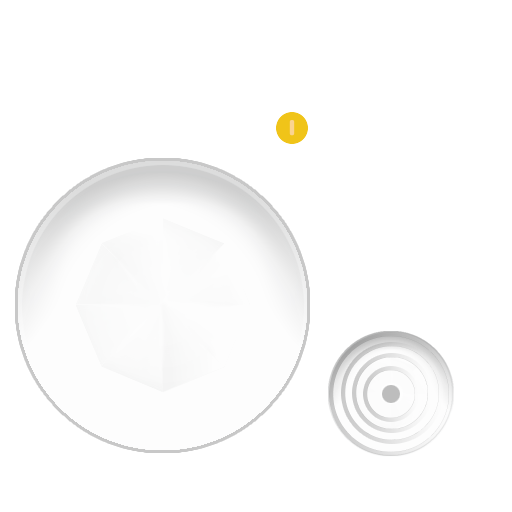
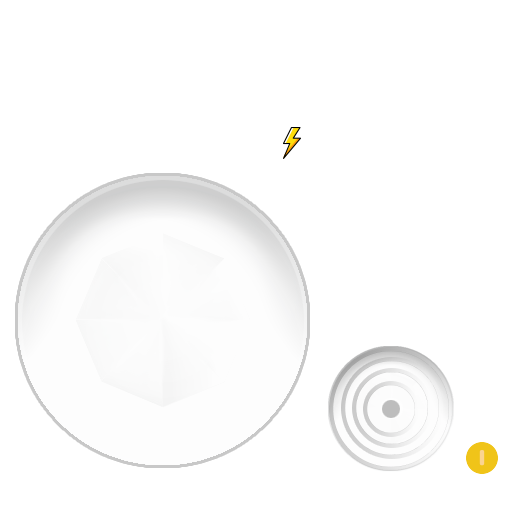
add boost item

diff --git a/core/src/ir/doorbash/hexy/PlayScreen.java b/core/src/ir/doorbash/hexy/PlayScreen.java
@@ -93,7 +93,7 @@ public class PlayScreen extends ScreenAdapter {
 
     private static final float CAMERA_LERP = 0.8f;
     private static final float CAMERA_DEATH_LERP = 0.4f;
-    private static final float CAMERA_INIT_ZOOM = 0.9f;
+    private static final float CAMERA_INIT_ZOOM = 0.7f;
     private static final float ON_SCREEN_PAD_RELEASE_TOTAL_TIME = 0.3f;
     private static final float GRID_WIDTH = 44;
     private static final float GRID_HEIGHT = 38;
@@ -147,16 +147,18 @@ public class PlayScreen extends ScreenAdapter {
     private static final String TEXTURE_REGION_INDIC = "indic";
     private static final String TEXTURE_REGION_PROGRESSBAR = "progressbar";
     private static final String TEXTURE_REGION_COIN = "coin";
+    private static final String TEXTURE_REGION_BOOST = "boost";
 
     private static final Interpolation ON_SCREEN_PAD_RELEASE_ELASTIC_OUT = new Interpolation.ElasticOut(3, 2, 3, 0.5f);
     private static final Color COLOR_TIME_TEXT_BACKGROUND = new Color(0x707070cc);
-//    private static final Color COLOR_KILLS_TEXT_BACKGROUND = new Color(0x707070aa);
+    //    private static final Color COLOR_KILLS_TEXT_BACKGROUND = new Color(0x707070aa);
     private static final Color COLOR_KILLS_TEXT_BACKGROUND = new Color(0x606060aa);
     private static final Color COLOR_YOUR_BEST_PROGRESS_TEXT = new Color(0x707070cc);
     private static final Color COLOR_YOUR_PROGRESS_BG = new Color(0x70707088);
     private static final Color CONNECTING_TEXT_COLOR = Color.valueOf("#212121ff");
     private static final Color COLOR_BLOCKS_TEXT_FADE_OUT = Color.valueOf("#212121ff");
     private static final Color COLOR_COINS_TEXT_FADE_OUT = new Color(0x8F6F31ff/*0xa67c00ff*/);
+    //    private static final Color COLOR_COINS_TEXT_FADE_OUT = Color.valueOf("#212121ff");
     private static final Comparator<Player> SORT_PLAYERS_BY_NUM_CELLS = (o1, o2) -> Integer.compare(o2.numCells, o1.numCells);
     private static final Comparator<Player> SORT_PLAYERS_BY_POSITION = (o1, o2) -> Integer.compare(o1._position, o2._position);
 
@@ -1039,8 +1041,10 @@ public class PlayScreen extends ScreenAdapter {
         synchronized (room.state.items.items) {
             for (Item item : room.state.items.items.values()) {
                 if (item.sprite == null) continue;
-                // TODO: only draw items that are in screen
-                item.sprite.draw(batch);
+
+                if (item.x >= leftX && item.x <= leftX + actualWidth && item.y >= bottomY && item.y <= bottomY + actualHeight) {
+                    item.sprite.draw(batch);
+                }
                 float x = MathUtils.lerp(item.sprite.getX() + item.sprite.getWidth() / 2f, item.x, 0.4f);
                 float y = MathUtils.lerp(item.sprite.getY() + item.sprite.getHeight() / 2f, item.y, 0.4f);
                 item.sprite.setCenter(x, y);
@@ -1772,14 +1776,18 @@ public class PlayScreen extends ScreenAdapter {
                     // dead
                     if (soundIsOn) Gdx.app.postRunnable(() -> hitSound.play());
                 } else if (data.get("op").equals("et")) {
-                    System.out.println("just ate item with type " + data.get("type"));
-                    if (soundIsOn) Gdx.app.postRunnable(() -> coinSound.play());
-                    coinValue = (int) data.get("coins");
-                    prefs.putInteger(Constants.KEY_COINS, coinValue).flush();
-                    int add = (int) data.get("add");
-                    synchronized (textFadeOutAnimations) {
-                        Sprite playerSprite = room.state.players.get(room.getSessionId())._stroke;
-                        textFadeOutAnimations.add(new TextFadeOutAnimation("+" + add + " coins", COLOR_COINS_TEXT_FADE_OUT, playerSprite.getX() + playerSprite.getWidth() / 2f, playerSprite.getY() + playerSprite.getHeight() / 2f));
+                    int itemType = (int) data.get("type");
+                    if(itemType == Item.TYPE_COIN) {
+                        if (soundIsOn) Gdx.app.postRunnable(() -> coinSound.play());
+                        coinValue = (int) data.get("coins");
+                        prefs.putInteger(Constants.KEY_COINS, coinValue).flush();
+                        int add = (int) data.get("add");
+                        synchronized (textFadeOutAnimations) {
+                            Sprite playerSprite = room.state.players.get(room.getSessionId())._stroke;
+                            textFadeOutAnimations.add(new TextFadeOutAnimation("+" + add + " coins", COLOR_COINS_TEXT_FADE_OUT, playerSprite.getX() + playerSprite.getWidth() / 2f, playerSprite.getY() + playerSprite.getHeight() / 2f));
+                        }
+                    } else if(itemType == Item.TYPE_BOOST) {
+                        if (soundIsOn) Gdx.app.postRunnable(() -> boostSound.play());
                     }
                 }
             }
@@ -1937,10 +1945,13 @@ public class PlayScreen extends ScreenAdapter {
         };
 
         room.state.items.onAdd = (item, key) -> Gdx.app.postRunnable(() -> {
+            if (connectionState != CONNECTION_STATE_CONNECTED) return;
             if (item.type == Item.TYPE_COIN) {
                 item.sprite = mainAtlas.createSprite(TEXTURE_REGION_COIN);
-                item.sprite.setCenter(item.x, item.y);
+            } else if (item.type == Item.TYPE_BOOST) {
+                item.sprite = mainAtlas.createSprite(TEXTURE_REGION_BOOST);
             }
+            item.sprite.setCenter(item.x, item.y);
         });
 
         room.state.players.triggerAll();
